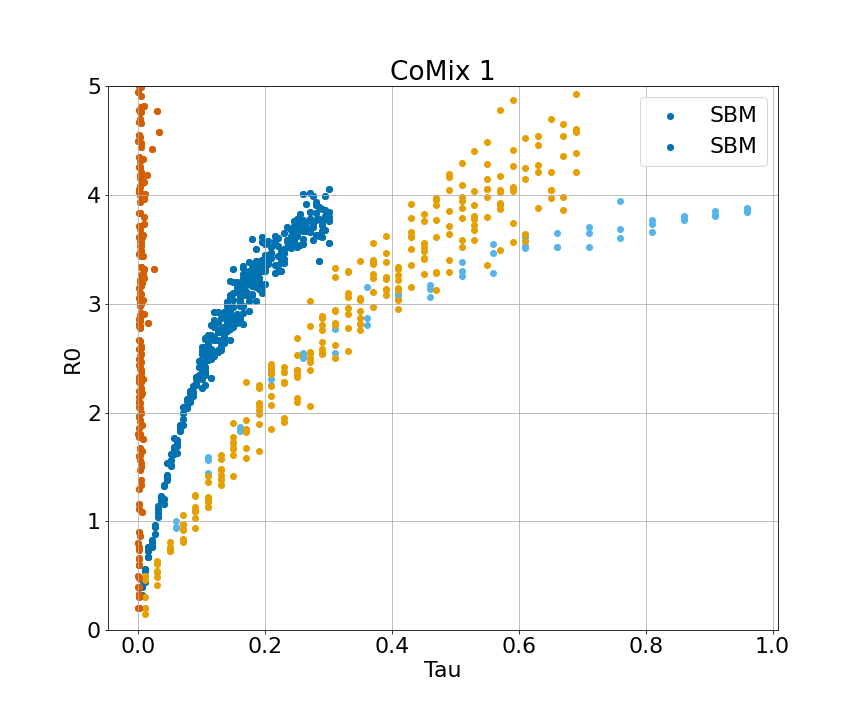
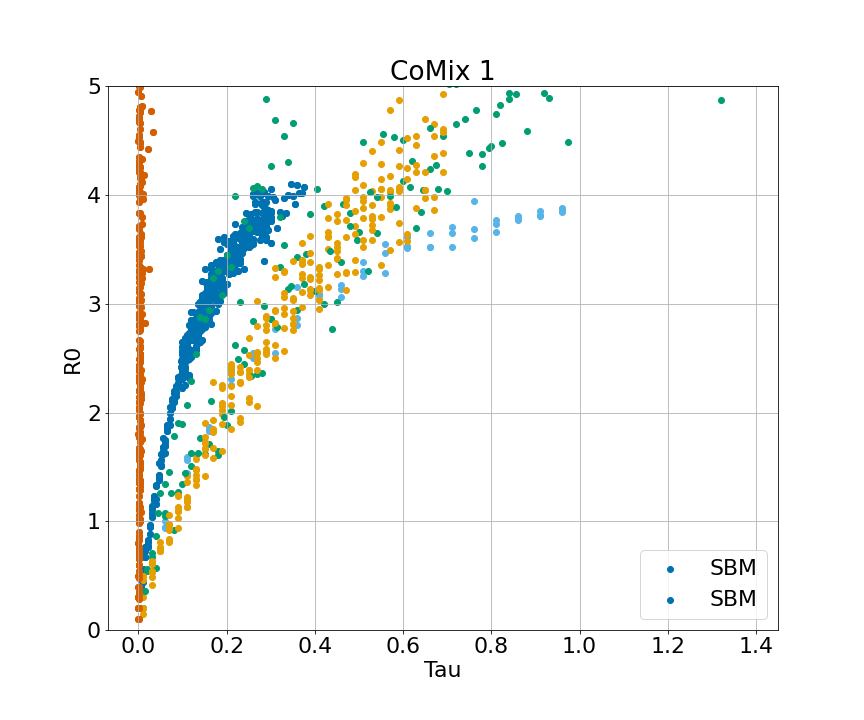
no age 4, sims scale and no scale 18

diff --git a/_final_sellke_noage_c2.py b/_final_sellke_noage_c2.py
@@ -17,8 +17,8 @@ datas = ['comix2']
 models = ['dpln']
 
 # scales = ['none']
-# scales = ['fit1']
-scales = ['fit2']
+scales = ['fit1']
+# scales = ['fit2']
 
 ## 0,1
 # taus = [[np.arange(0.001,0.07,0.002)]]
@@ -27,24 +27,13 @@ scales = ['fit2']
 # taus = [[10*x for x in a] for a in taus]
 ## 2,3
 # taus = [[np.arange(0.001,0.07,0.001)]]
-taus = [[np.arange(0.001,0.07,0.002)]]
+# taus = [[np.arange(0.001,0.07,0.002)]]
 # taus = [[np.arange(0.001,0.05,0.002)]]
-taus = [[20*x for x in a] for a in taus]
+# taus = [[20*x for x in a] for a in taus]
 ## 4,5
 # taus = [[np.arange(0.001,0.07,0.001)]]
-# taus = [[np.arange(0.001,0.07,0.002)]]
+taus = [[np.arange(0.001,0.05,0.001)]]
 # taus = [[np.arange(0.001,0.05,0.002)]]
-# taus = [[15*x for x in a] for a in taus]
-## 6,7
-# taus = [[np.arange(0.001,0.07,0.001)]]
-# taus = [[np.arange(0.001,0.07,0.002)]]
-# taus = [[np.arange(0.001,0.05,0.002)]]
-# taus = [[30*x for x in a] for a in taus]
-## 8,9
-# taus = [[np.arange(0.001,0.07,0.001)]]
-# taus = [[np.arange(0.001,0.07,0.002)]]
-# taus = [[np.arange(0.001,0.05,0.002)]]
-# taus = [[10*x for x in a] for a in taus]
 
 
 for i, data in enumerate(datas):
@@ -58,6 +47,6 @@ for i, data in enumerate(datas):
         df = pd.read_csv(f'input_data/{data}.csv')
         _, contact_matrix, params = nd_p.fit_to_data(df=df,dist_type=model, buckets=buckets, save_fig=False)
         result = nd_p.big_sellke_sims(partitions=partitions,contact_matrix=contact_matrix,network_params=params,n=n,dist_type=model,num_networks=1,iterations=iters, taus=taus[i][j],prop_infec=10/n, scaling=scales[j])
-        with open(f'../output_data/simulations/big/sellke/SIR/3_{data}_{model}_{scales[j]}_noage.json','w') as f:
+        with open(f'../output_data/simulations/big/sellke/SIR/4_{data}_{model}_{scales[j]}_noage.json','w') as f:
             json.dump(result, f)
 print('done')

diff --git a/_final_sellke_noage_c1.py b/_final_sellke_noage_c1.py
@@ -26,25 +26,14 @@ scales = ['fit1']
 # taus = [[np.arange(0.001,0.05,0.002)]]
 # taus = [[10*x for x in a] for a in taus]
 ## 2,3
-taus = [[np.arange(0.001,0.07,0.001)]]
+# taus = [[np.arange(0.001,0.07,0.001)]]
 # taus = [[np.arange(0.001,0.07,0.002)]]
 # taus = [[np.arange(0.001,0.05,0.002)]]
-taus = [[20*x for x in a] for a in taus]
+# taus = [[20*x for x in a] for a in taus]
 ## 4,5
-# taus = [[np.arange(0.001,0.07,0.001)]]
+taus = [[np.arange(0.005,0.4,0.005)]]
 # taus = [[np.arange(0.001,0.07,0.002)]]
 # taus = [[np.arange(0.001,0.05,0.002)]]
-# taus = [[15*x for x in a] for a in taus]
-## 6,7
-# taus = [[np.arange(0.001,0.07,0.001)]]
-# taus = [[np.arange(0.001,0.07,0.002)]]
-# taus = [[np.arange(0.001,0.05,0.002)]]
-# taus = [[30*x for x in a] for a in taus]
-## 8,9
-# taus = [[np.arange(0.005,0.07,0.005)]]
-# taus = [[np.arange(0.001,0.07,0.002)]]
-# taus = [[np.arange(0.001,0.05,0.002)]]
-# taus = [[10*x for x in a] for a in taus]
 
 
 
@@ -59,6 +48,6 @@ for i, data in enumerate(datas):
         df = pd.read_csv(f'input_data/{data}.csv')
         _, contact_matrix, params = nd_p.fit_to_data(df=df,dist_type=model, buckets=buckets, save_fig=False)
         result = nd_p.big_sellke_sims(partitions=partitions,contact_matrix=contact_matrix,network_params=params,n=n,dist_type=model,num_networks=1,iterations=iters, taus=taus[i][j],prop_infec=10/n, scaling=scales[j])
-        with open(f'../output_data/simulations/big/sellke/SIR/3_{data}_{model}_{scales[j]}_noage.json','w') as f:
+        with open(f'../output_data/simulations/big/sellke/SIR/4_{data}_{model}_{scales[j]}_noage.json','w') as f:
             json.dump(result, f)
 print('done')

diff --git a/_final_sellke_noage_p.py b/_final_sellke_noage_p.py
@@ -28,23 +28,12 @@ scales = ['fit1']
 ## 2,3
 # taus = [[np.arange(0.001,0.07,0.001)]]
 # taus = [[np.arange(0.001,0.07,0.002)]]
-taus = [[np.arange(0.001,0.05,0.002)]]
-taus = [[20*x for x in a] for a in taus]
+# taus = [[np.arange(0.001,0.05,0.002)]]
+# taus = [[20*x for x in a] for a in taus]
 ## 4,5
 # taus = [[np.arange(0.001,0.07,0.001)]]
 # taus = [[np.arange(0.001,0.07,0.002)]]
-# taus = [[np.arange(0.001,0.05,0.002)]]
-# taus = [[15*x for x in a] for a in taus]
-## 6,7
-# taus = [[np.arange(0.001,0.07,0.001)]]
-# taus = [[np.arange(0.001,0.07,0.002)]]
-# taus = [[np.arange(0.001,0.05,0.002)]]
-# taus = [[30*x for x in a] for a in taus]
-## 8,9
-# taus = [[np.arange(0.001,0.07,0.001)]]
-# taus = [[np.arange(0.001,0.07,0.002)]]
-# taus = [[np.arange(0.001,0.05,0.002)]]
-# taus = [[10*x for x in a] for a in taus]
+taus = [[np.arange(0.001,0.02,0.001)]]
 
 for i, data in enumerate(datas):
     for j, model in enumerate(models):
@@ -57,6 +46,6 @@ for i, data in enumerate(datas):
         df = pd.read_csv(f'input_data/{data}.csv')
         _, contact_matrix, params = nd_p.fit_to_data(df=df,dist_type=model, buckets=buckets, save_fig=False)
         result = nd_p.big_sellke_sims(partitions=partitions,contact_matrix=contact_matrix,network_params=params,n=n,dist_type=model,num_networks=1,iterations=iters, taus=taus[i][j],prop_infec=10/n, scaling=scales[j])
-        with open(f'../output_data/simulations/big/sellke/SIR/3_{data}_{model}_{scales[j]}_noage.json','w') as f:
+        with open(f'../output_data/simulations/big/sellke/SIR/4_{data}_{model}_{scales[j]}_noage.json','w') as f:
             json.dump(result, f)
 print('done')

diff --git a/_final_sellke.py b/_final_sellke.py
@@ -26,10 +26,14 @@ scales = ['none', 'none']
 # taus = [[np.arange(0.1,0.305,0.005), np.arange(0.0001,0.005,0.0001)],
 #         [np.arange(0.05,0.25,0.005), np.arange(0.0001,0.005,0.0001)],
 #         [np.arange(0.001,0.1,0.002), np.arange(0.0001,0.04,0.0001)]]
-# 17,18
-taus = [[np.arange(0.28,0.38,0.005), np.arange(0.0001,0.005,0.0001)],
-        [np.arange(0.2,0.32,0.005), np.arange(0.0001,0.002,0.0001)],
-        [np.arange(0.001,0.08,0.001), np.arange(0.0001,0.03,0.0001)]]
+# 17
+# taus = [[np.arange(0.28,0.38,0.005), np.arange(0.0001,0.005,0.0001)],
+#         [np.arange(0.2,0.32,0.005), np.arange(0.0001,0.002,0.0001)],
+#         [np.arange(0.001,0.08,0.001), np.arange(0.0001,0.03,0.0001)]]
+# 18
+taus = [[np.arange(0.005,0.1,0.005), np.arange(0.0005,0.005,0.0005)],
+        [np.arange(0.005,0.1,0.005), np.arange(0.00005,0.001,0.00005)],
+        [np.arange(0.001,0.05,0.001), np.arange(0.0001,0.03,0.0001)]]
 
 ### long
 ## 0,1,2
@@ -46,6 +50,6 @@ for i, data in enumerate(datas):
         else:
             params = np.genfromtxt(f'input_data/parameters/params_{data}_{model}.csv', delimiter=',')
         result = nd_p.big_sellke_sims(partitions=partitions,contact_matrix=contact_matrix,network_params=params,n=n,dist_type=model,num_networks=1,iterations=iters, taus=taus[i][j],prop_infec=10/n, scaling=scales[j])
-        with open(f'../output_data/simulations/big/sellke/SIR/17_{data}_{model}_{scales[j]}.json','w') as f:
+        with open(f'../output_data/simulations/big/sellke/SIR/18_{data}_{model}_{scales[j]}.json','w') as f:
             json.dump(result, f)
 print('done')

diff --git a/_final_sellke_scale.py b/_final_sellke_scale.py
@@ -30,10 +30,14 @@ scales = ['fit1', 'fit2']
 #         [np.arange(0.0005,0.06,0.0005)]]
 # taus = [[10*x for x in a] for a in taus]
 # 17
-taus = [[np.arange(0.0005,0.01,0.0005)],
-        [np.arange(0.0005,0.09,0.0005)],
-        [np.arange(0.0005,0.06,0.0005)]]
-taus = [[15*x for x in a] for a in taus]
+# taus = [[np.arange(0.0005,0.01,0.0005)],
+#         [np.arange(0.0005,0.09,0.0005)],
+#         [np.arange(0.0005,0.06,0.0005)]]
+# taus = [[15*x for x in a] for a in taus]
+# 18
+taus = [[np.arange(0.005,0.3,0.005)],
+        [np.arange(0.005,0.4,0.005)],
+        [np.arange(0.005,0.2,0.005)]]
 
 ##long
 ## 0,1,2
@@ -51,6 +55,6 @@ for i, data in enumerate(datas):
         else:
             params = np.genfromtxt(f'input_data/parameters/params_{data}_{model}.csv', delimiter=',')
         result = nd_p.big_sellke_sims(partitions=partitions,contact_matrix=contact_matrix,network_params=params,n=n,dist_type=model,num_networks=1,iterations=iters, taus=taus[i][j],prop_infec=10/n, scaling=scales[j])
-        with open(f'../output_data/simulations/big/sellke/SIR/17_{data}_{model}_{scales[j]}.json','w') as f:
+        with open(f'../output_data/simulations/big/sellke/SIR/18_{data}_{model}_{scales[j]}.json','w') as f:
             json.dump(result, f)
 print('done')
